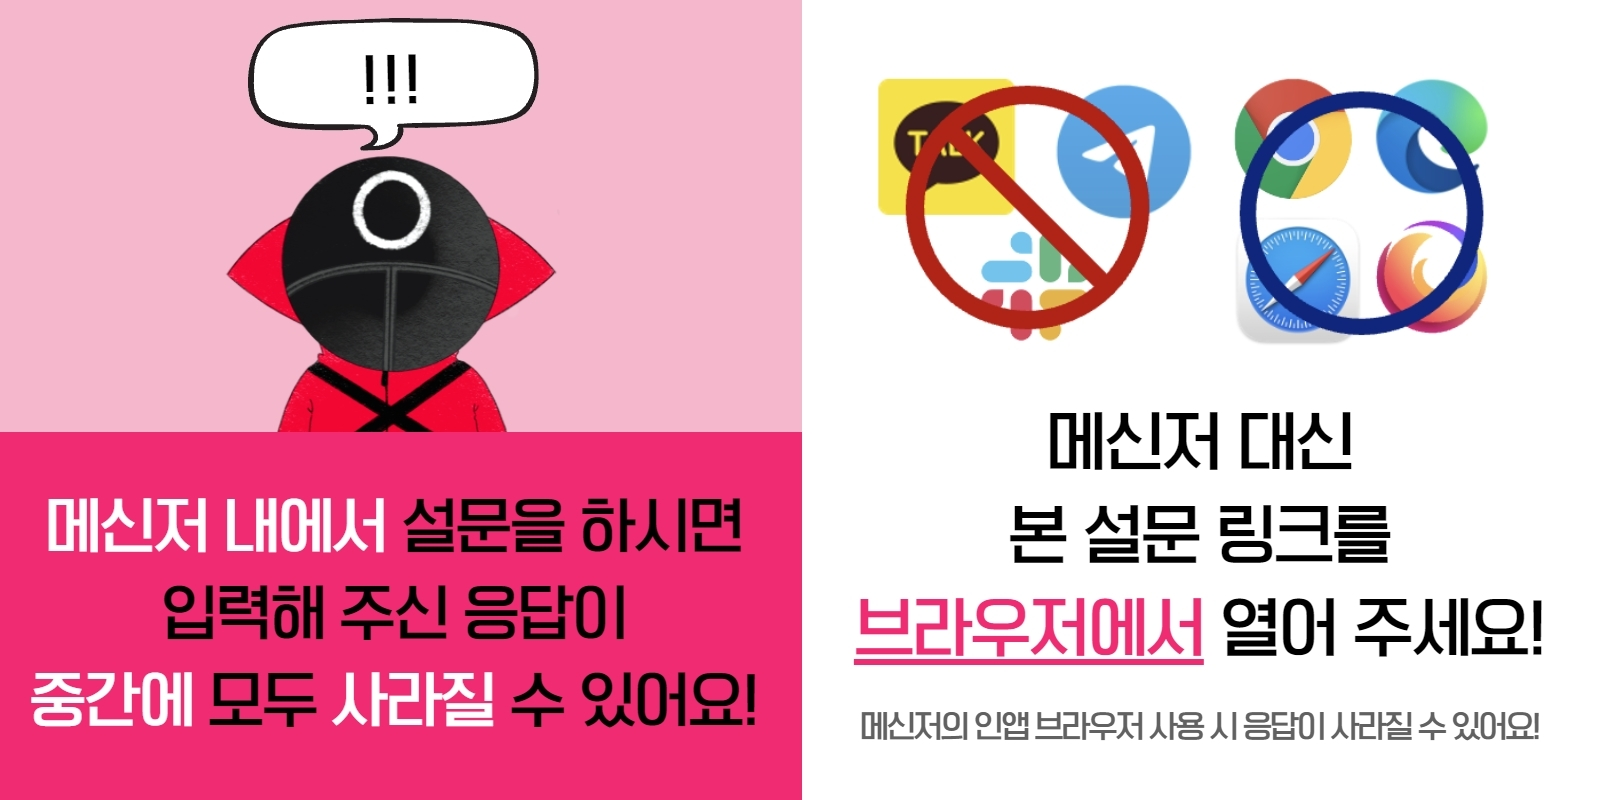
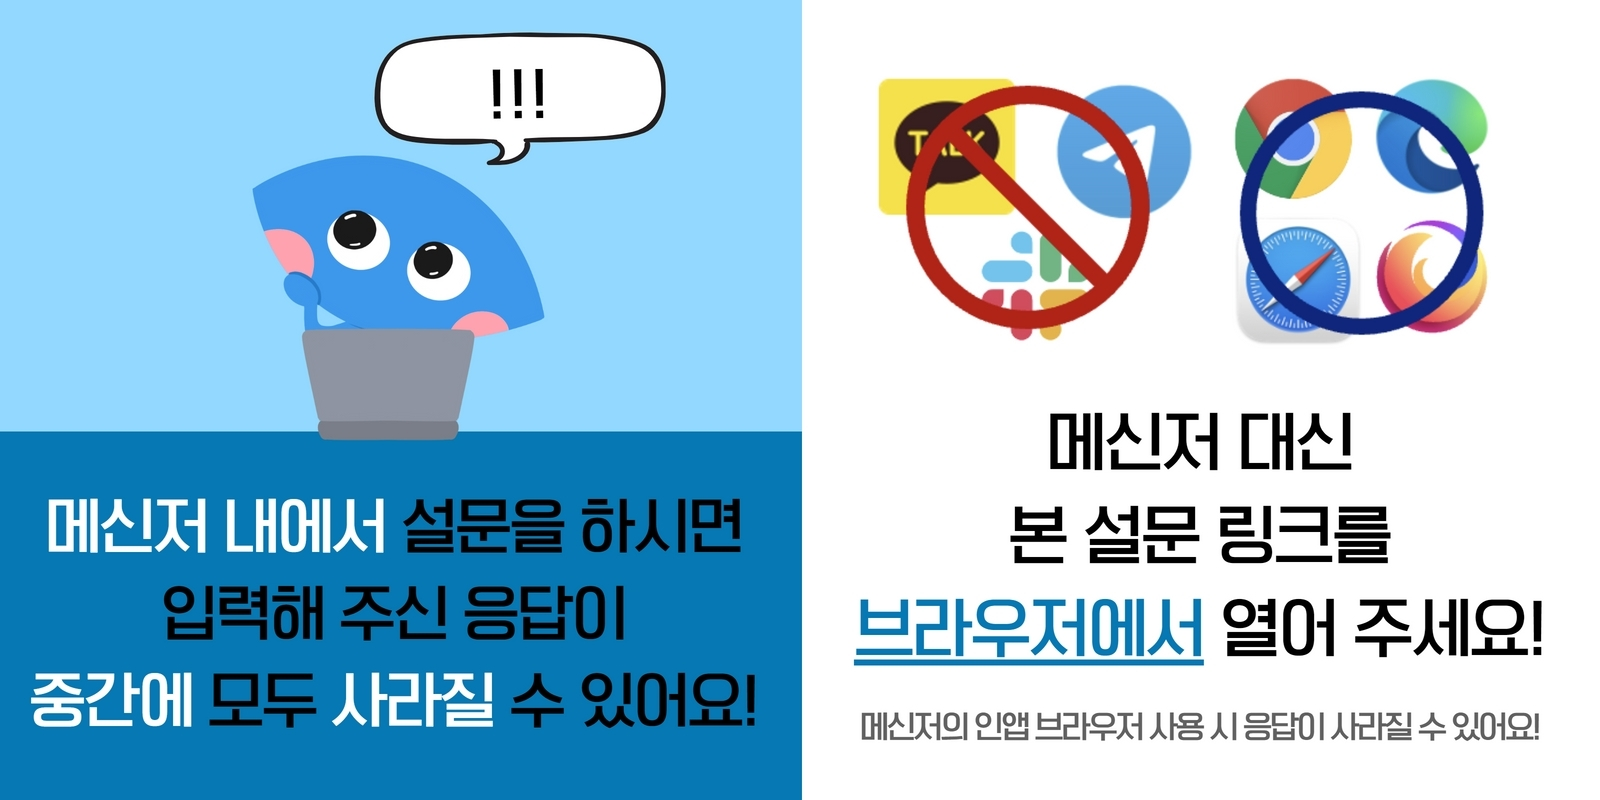
서비스 시작 준비

diff --git a/docs/index.html b/docs/index.html
@@ -4,7 +4,7 @@
 <head>
   <meta charset="utf-8">
   <meta name="robots" content="noindex, nofollow" />
-  <meta name="theme-color" content="#ad4166">
+  <meta name="theme-color" content="#A1D7FB">
   <meta property="og:type" content="website">
   <meta property="og:title" content="KAIST 대학원 총학생회 연구환경실태조사">
   <meta property="og:url" content="https://kaistgsa.github.io/labsurvey/">
@@ -20,7 +20,7 @@
     href="https://cdn.jsdelivr.net/gh/orioncactus/pretendard/dist/web/static/pretendard-dynamic-subset.css" />
   <style>
     body {
-      /* background-color: #171717; */
+      background-color: #F0DBFF;
     }
 
     br {
@@ -40,10 +40,10 @@
       padding-top: 1.5em;
       display: block;
       margin: auto;
-      height: 7.2em;
+      height: 9em;
     }
 
-    @media (max-width: 35rem) {
+    @media (max-width: 48rem) {
       .logo {
         width: 90%;
         height: auto;
@@ -63,7 +63,7 @@
       margin-right: 3em;
       font-size: 1em;
       line-height: 1.4;
-      /* color: #ddd; */
+      color: #515151;
     }
 
     @media (max-width: 40rem) {
@@ -74,7 +74,7 @@
     }
 
     .info strong {
-      color: #e87096;
+      color: #3278AE;
     }
 
     .buttons {
@@ -88,28 +88,30 @@
       flex-direction: column;
       align-self: stretch;
 
-      width: 15rem;
+      width: 16rem;
       background-color: #fafafa;
       margin: 1.2em;
       outline-width: 7px;
       outline-style: solid;
-      outline-color: #ad4166;
+      outline-color: #A1D7FB;
+      border-radius: 20px;
       text-decoration: none;
-      color: #222;
+      color: #515151;
       user-select: none;
     }
 
     .buttons>a strong {
-      color: #ad4166;
+      color: #3278AE;
     }
 
     .buttons>a h2 {
-      color: #ad4166;
+      font-weight: 800;
+      color: #3278AE;
     }
 
     @media(hover: hover) and (pointer: fine) {
       .buttons>a:hover {
-        outline-color: #ca7290;
+        outline-color: #3278AE;
       }
     }
 
@@ -133,12 +135,12 @@
       margin-left: 0.4rem;
       margin-right: 0.4rem;
       text-align: center;
-      font-size: 1.2em;
+      font-size: 1.3em;
       line-height: 1.3;
     }
 
     .small {
-      font-size: 0.6em;
+      font-size: 0.8em;
     }
 
     .step {
@@ -163,15 +165,16 @@
       display: flex;
       align-items: center;
       justify-content: center;
-      color: #ddd;
+      color: #616161;
       padding-bottom: 1em;
     }
 
     .advertisement a {
-      color: #e87096;
+      color: #3278AE;
     }
 
     .giveaway {
+      color: #515151;
       text-align: center;
       margin-top: 1em;
       margin-left: 1em;
@@ -180,7 +183,7 @@
 
     .giveaway>img {
       width: 100%;
-      max-width: 42em;
+      max-width: 53.5em;
     }
 
     @media (max-width: 40rem) {
@@ -194,44 +197,38 @@
 </head>
 
 <body>
-  <!-- <img class="logo" src="logo.png" srcset="logo.png 1x, logo@2x.png 2x, logo@3x.png 3x" alt="2021 연구환경실태조사" /> -->
+  <img class="logo" src="logo.png" srcset="logo.png 1x, logo@2x.png 2x, logo@3x.png 3x"
+    alt="2022 연구환경실태조사. 나의 연구실 LaBTI는?" />
 
-  <div class="info">
-    <p>
-      KAIST 대학원생의 연구 환경에 관한 귀하의 관심에 감사드립니다.<br /><br />
-      2022년 연구환경실태조사는 11월 21일 월요일에 시작합니다. 새로운 모습으로 찾아뵙겠습니다.
-    </p>
-  </div>
-
-  <!--
   <div class="info">
     <p><strong>응답자의 익명성은 철저히 보장됩니다.</strong> 대학원생들의 권익 보장과 연구 환경 개선을 위해서 최대한 솔직하고 정확하게 답변해 주시길 부탁드립니다.</p>
   </div>
 
   <div class="buttons">
     <a href="https://gsa.kaist.ac.kr/labsurvey-code-generator" target="_blank" rel="noopener noreferrer nofollow">
-      <h2><span class="step">1단계<span class="small"> (선택)</span></span><br />경품 코드 생성하기</h2>
+      <h2><span class="step">1단계</span><br />경품 코드 생성하기<span class="small"> (선택)</span></h2>
       <p>경품 코드 입력 및 상품 수령은 선택 사항입니다.</p>
     </a>
-    <a>
+    <a href="#" onclick="javascript: alert('준비 중입니다.')">
       <h2><span class="step">2단계</span><br />연구환경실태조사 참여하기</h2>
-      <p><strong>연구환경실태조사</strong>에 경품 코드를 입력하여 응답을 완료하신 <strong>모든 분께 참가상</strong>과 추첨상 당첨 기회를 드립니다.</p>
+      <p><strong>연구환경실태조사</strong>에 경품 코드를 입력하여 응답을 완료하신 <strong>모든 분께 스타벅스 5,000원권</strong>을 드립니다.</p>
     </a>
-    <a>
+    <a href="#" onclick="javascript: alert('준비 중입니다.')">
       <h2><span class="step">3단계</span><br />인권실태조사 참여하기</h2>
-      <p>추가로 <strong>인권실태조사</strong>까지 모두 완료하시면 추첨상 당첨 확률이 2배로 높아집니다. (연구환경실태조사보다 짧은 시간이 소요됩니다.)</p>
+      <p>추가로 <strong>인권실태조사</strong>까지 모두 완료하신 경우 연구환경실태조사 경품 추첨에 응모됩니다.</p>
     </a>
   </div>
 
   <div class="giveaway">
-    <img src="giveaway.jpg"
-      alt="연환실 경품 라인업. Wow! 1등(1명) 미니 골드바 두 돈. 2등(1명) 타운하우스 2인 식사권. 3등(2명) 발뮤다 전기 주전자. 4등(3명) 신세계 10만 원권. 5등(5명) CJ 5만 원권. 6등(25명) CJ/문화상품권 1만 원권. 참가자 전원 스타벅스 5천 원권 증정. 1등부터 5등까지의 상품은 대학원 학생회비 납부자만이 수령 가능합니다. 연구환경실태조사 마감일인 2021년 11월 21일(일) 23:59까지 학생회비를 납부하고, 납부를 고지하신 경우에만 인정됩니다. 학생회비 추가 납부 방법은 GSA 홈페이지 공지사항 https://gsa.kaist.ac.kr/175277 에서 확인 가능합니다." />
+    <p>* LaBTI 결과는 내년 초에 안내될 연구환경실태조사 시각화 페이지에서 확인하실 수 있습니다.</p>
+    <img src="giveaway.png" srcset="giveaway.png 1x, giveaway@2x.png 2x, giveaway@3x.png 3x"
+      alt="연환실 경품 라인업." />
   </div>
 
   <div class="advertisement">
     <div>
       <p>
-        랩비와 관련하여 제보하고 싶은 내용이 있다면, 아래 채팅방으로 문의 바랍니다.<br />
+        교수 갑질과 관련하여 제보하고 싶은 내용이 있다면, 아래 채팅방으로 문의 바랍니다.<br />
         * 대학원 총학생회장 일대일 대화, 신원 및 제보 내용 비밀 보장. <br />
         <a href="https://open.kakao.com/o/sdI0cPZc" target="_blank" rel="noopener noreferrer nofollow">
           https://open.kakao.com/o/sdI0cPZc
@@ -239,7 +236,6 @@
       </p>
     </div>
   </div>
-  -->
 </body>
 
 </html>
